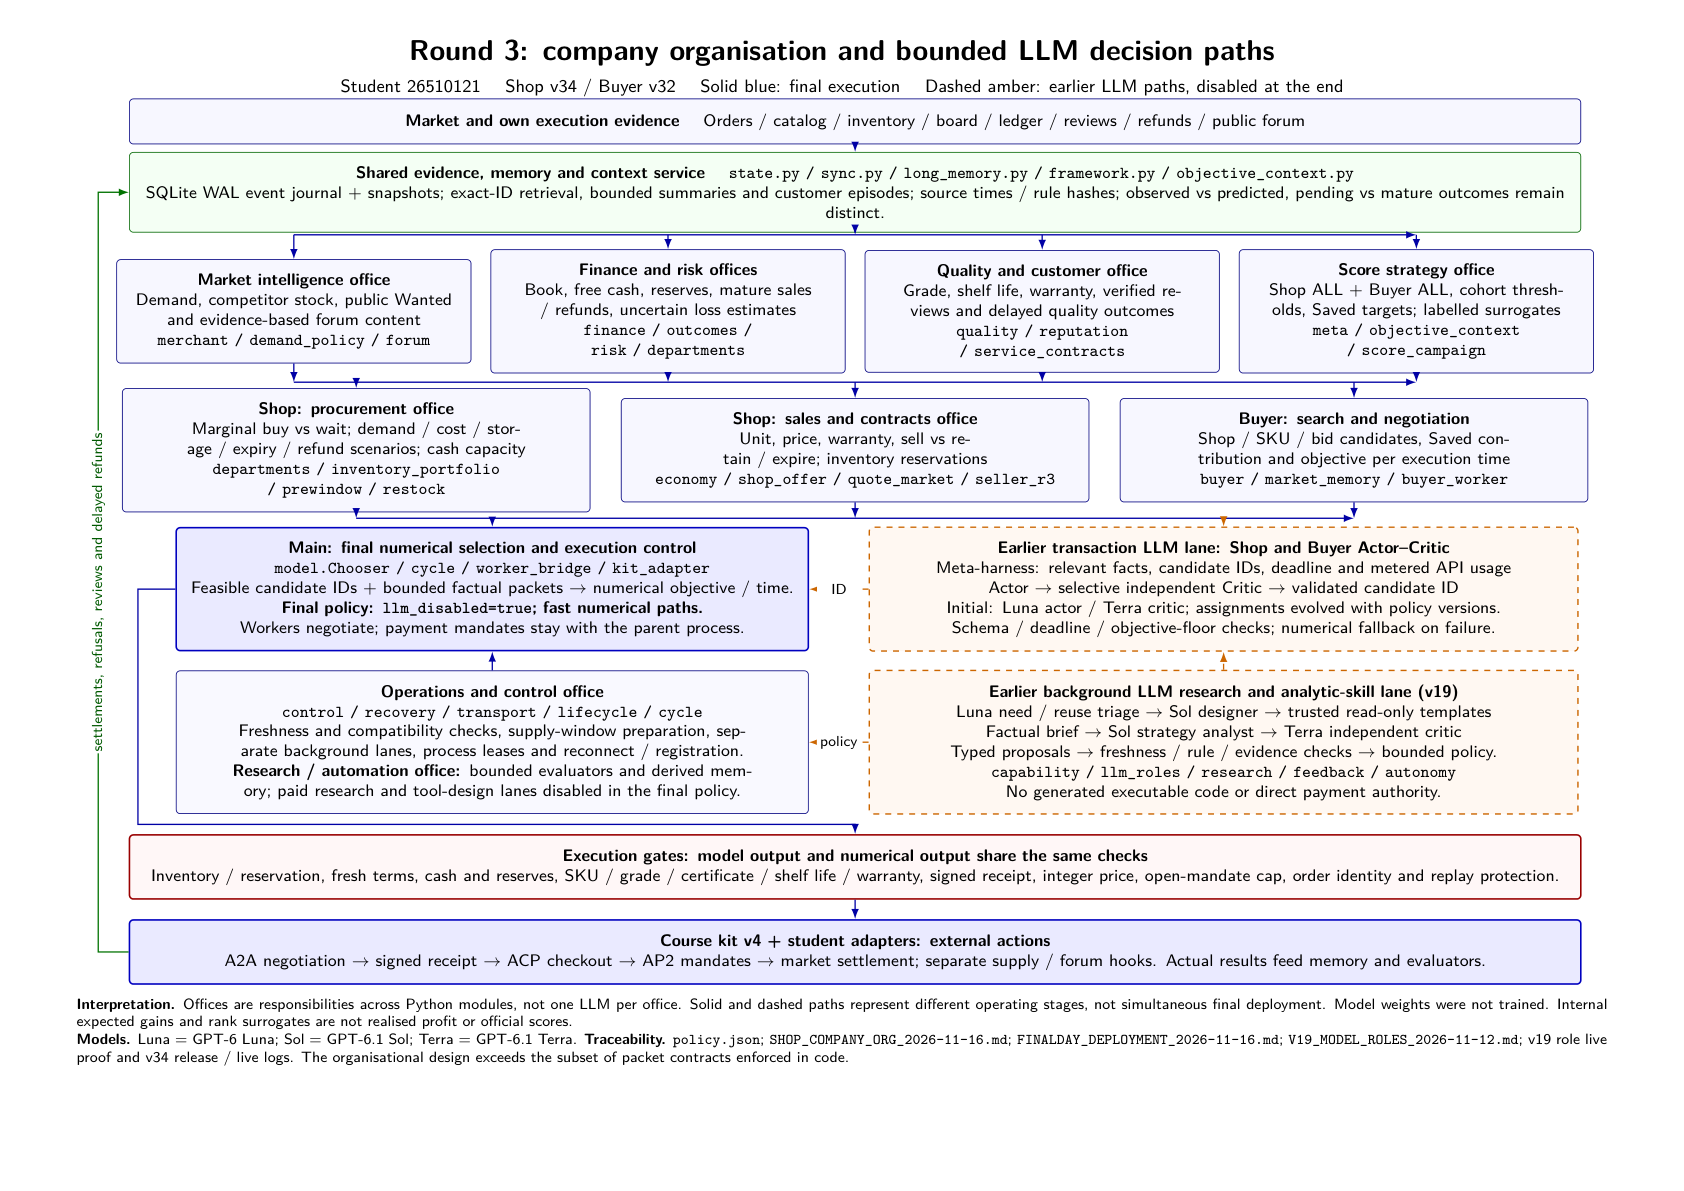
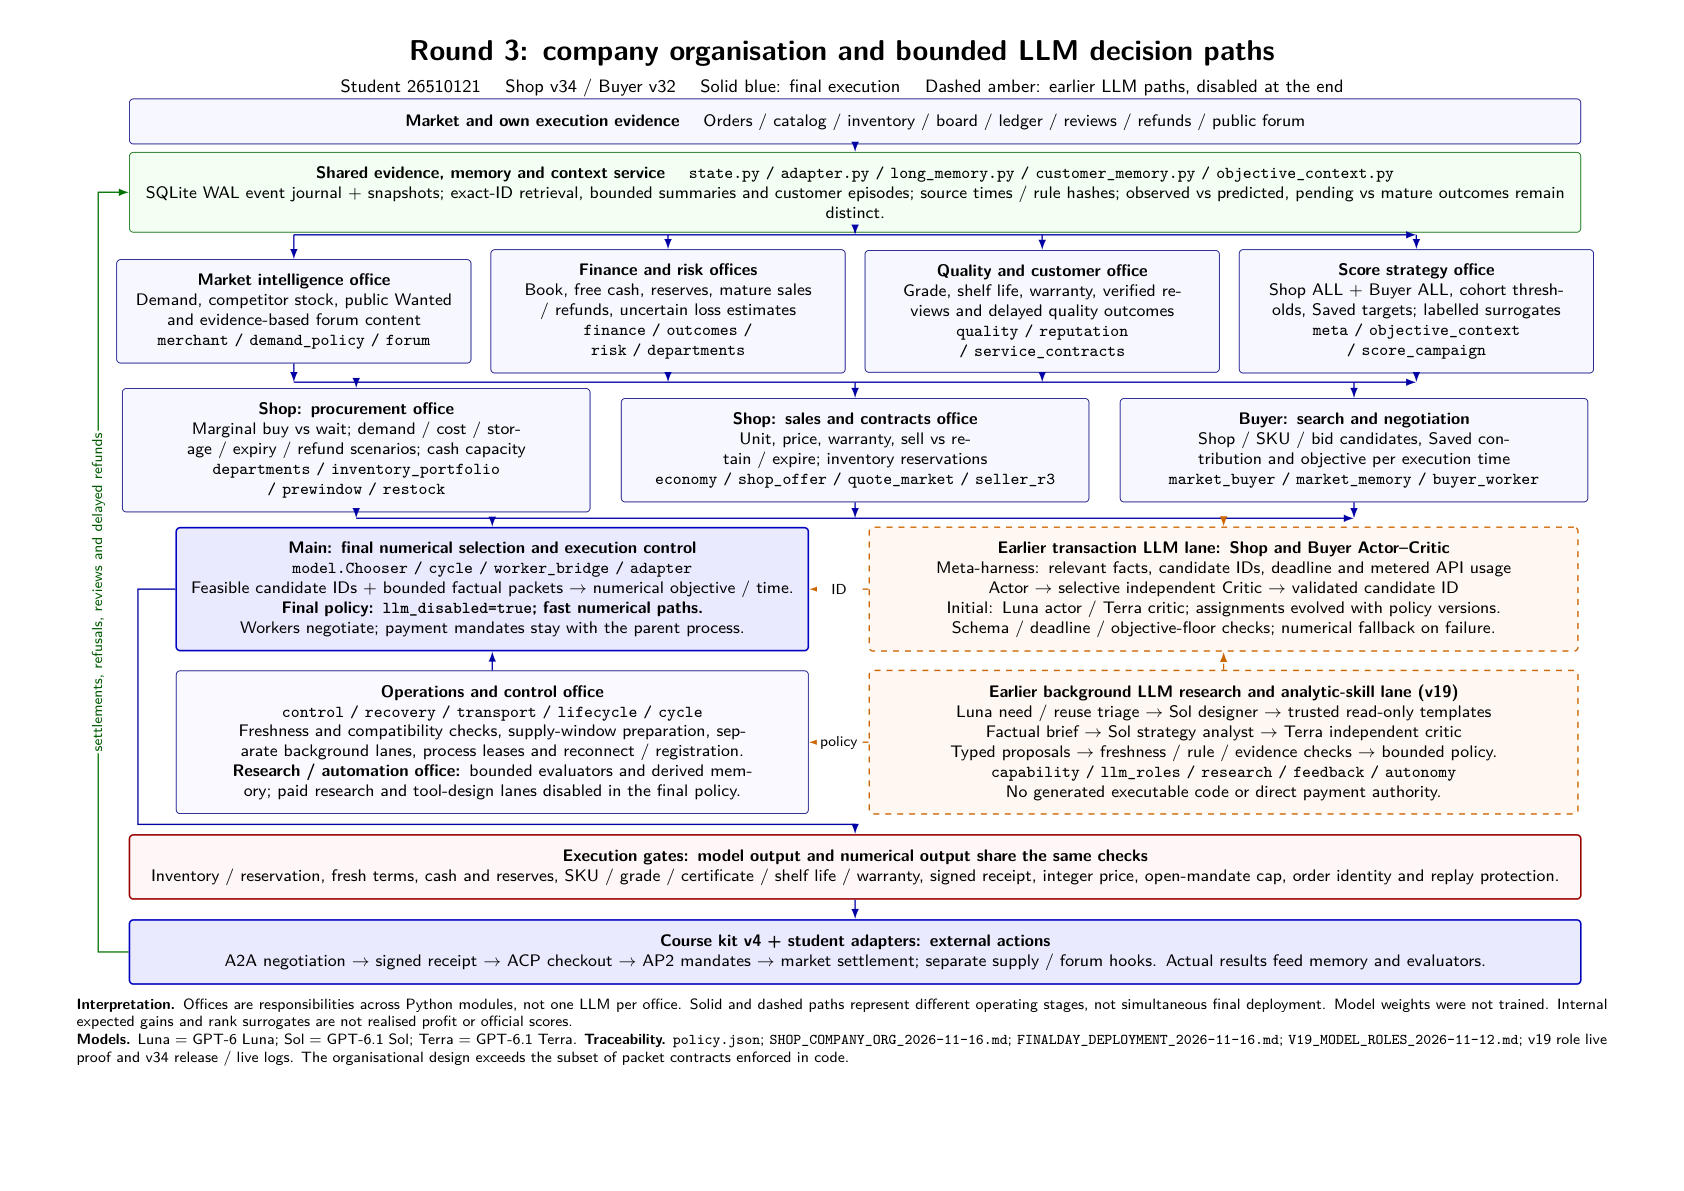
fix(week-08): map architecture labels to existing source modules

Changed region(s): [[0.1853, 0.1243, 0.8029, 0.1553], [0.1853, 0.466, 0.4014, 0.4971], [0.772, 0.3728, 0.8029, 0.4039]]

diff --git a/submissions/26510121/week-08/architecture.tex b/submissions/26510121/week-08/architecture.tex
@@ -32,7 +32,7 @@ Solid blue: final execution \quad Dashed amber: earlier LLM paths, disabled at t
    Orders / catalog / inventory / board / ledger / reviews / refunds / public forum};
 \node[box,text width=25.1cm,minimum height=1.05cm,fill=green!4,draw=green!40!black] (memory) at (0,-1.25)
   {\textbf{Shared evidence, memory and context service} \quad
-   \texttt{state.py / sync.py / long\_memory.py / framework.py / objective\_context.py}\\
+   \texttt{state.py / adapter.py / long\_memory.py / customer\_memory.py / objective\_context.py}\\
    SQLite WAL event journal + snapshots; exact-ID retrieval, bounded summaries and customer episodes;
    source times / rule hashes; observed vs predicted, pending vs mature outcomes remain distinct.};
 \node[office] (market) at (-9.9,-3.35)
@@ -62,10 +62,10 @@ Solid blue: final execution \quad Dashed amber: earlier LLM paths, disabled at t
 \node[box,text width=7.75cm,minimum height=1.35cm] (buyer) at (8.8,-5.8)
   {\textbf{Buyer: search and negotiation}\\
    Shop / SKU / bid candidates, Saved contribution and objective per execution time\\
-   \texttt{buyer / market\_memory / buyer\_worker}};
+   \texttt{market\_buyer / market\_memory / buyer\_worker}};
 \node[main,text width=10.65cm,minimum height=1.9cm] (main) at (-6.4,-8.25)
   {\textbf{Main: final numerical selection and execution control}\\
-   \texttt{model.Chooser / cycle / worker\_bridge / kit\_adapter}\\
+   \texttt{model.Chooser / cycle / worker\_bridge / adapter}\\
    Feasible candidate IDs + bounded factual packets $\rightarrow$ numerical objective / time.\\
    \textbf{Final policy: \texttt{llm\_disabled=true}; fast numerical paths.}\\
    Workers negotiate; payment mandates stay with the parent process.};
